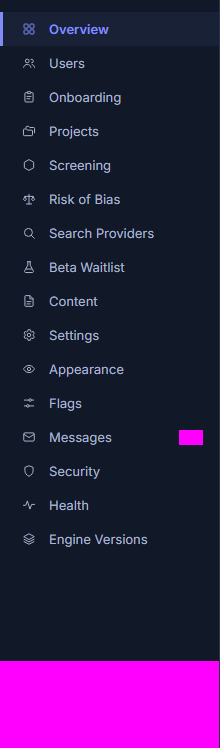
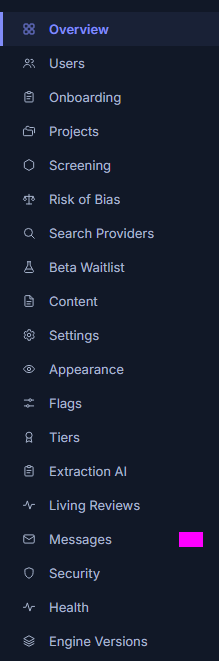
fix(sweep): Ops sidebar overlap + e2e alignment for the 66-69 additions
Final whole-app sweep found three issues the four feature prompts introduced or
exposed; all fixed:

- REAL UX BUG: the Ops sidebar footer ("Back to Dashboard") was position:absolute
  over a scrollable nav, so once 66/67 added the Extraction AI / Living Reviews /
  Tiers sections the last items (Health, Engine Versions) rendered UNDER the
  footer and were unclickable. Restructured the sidebar as a flex column — the
  nav list scrolls in its own flex:1 region and the footer sits below it, never
  overlapping. (Playwright caught it as a pointer-intercept.)
- Dashboard e2e selector: cardTitles matched any main [title], which since 63.md
  also includes non-card widgets; scoped it to a new data-testid on the project
  card/list-row titles (additive, production-safe) so the count is exact.
- Ops nav e2e: added the three new section ids + headings to the page object and
  bumped the "16 → 19 sections" assertion.
- Visual baselines regenerated for the two surfaces that legitimately changed:
  the project rail (Living Review entry in the Search submenu) and the Ops
  sidebar (new sections + flex layout).

Verified: dashboard, ops, visual, branding, extraction/living, public-synthesis
specs all green serially.

Claude-Session: https://claude.ai/code/session_01DsfLjreADdf7o7eJBSUZJb

diff --git a/src/frontend/pages/admin/AdminConsole.jsx b/src/frontend/pages/admin/AdminConsole.jsx
@@ -8662,7 +8662,10 @@ export default function AdminConsole() {
       </div>
 
       {/* ── Sidebar ──────────────────────────────────────────────────── */}
-      <div style={{ position: 'fixed', top: TOPBAR_H, left: 0, width: SIDEBAR_W, bottom: 0, background: C.surf, borderRight: `1px solid ${C.brd}`, overflowY: 'auto', zIndex: 200, paddingTop: 12 }}>
+      <div style={{ position: 'fixed', top: TOPBAR_H, left: 0, width: SIDEBAR_W, bottom: 0, background: C.surf, borderRight: `1px solid ${C.brd}`, zIndex: 200, display: 'flex', flexDirection: 'column' }}>
+        {/* Scrollable nav list — flex:1 so the footer below it never overlaps the
+            last items (regression when the section count grew past the fold). */}
+        <div style={{ flex: 1, overflowY: 'auto', minHeight: 0, paddingTop: 12 }}>
         {visibleNav.map(sec => {
           const isActive = active === sec.id;
           const badge = sec.id === 'messages' && unread > 0 ? unread : null;
@@ -8679,9 +8682,11 @@ export default function AdminConsole() {
             </button>
           );
         })}
+        </div>
 
-        {/* Sidebar footer — back to dashboard link + version line */}
-        <div style={{ position: 'absolute', bottom: 0, left: 0, right: 0, padding: '12px 16px', borderTop: `1px solid ${C.brd}`, background: C.surf }}>
+        {/* Sidebar footer — back to dashboard link + version line. Normal flow
+            (flexShrink:0) so it sits BELOW the scrollable list, never over it. */}
+        <div style={{ flexShrink: 0, padding: '12px 16px', borderTop: `1px solid ${C.brd}`, background: C.surf }}>
           <button onClick={() => navigate('/app')} style={{ display: 'flex', alignItems: 'center', gap: 8, width: '100%', padding: '7px 10px', background: 'transparent', border: `1px solid ${C.brd2}`, borderRadius: 7, color: C.txt2, fontSize: 12, cursor: 'pointer', fontFamily: FONT, transition: 'all 0.15s' }}
             onMouseEnter={e => { e.currentTarget.style.borderColor = C.acc; e.currentTarget.style.color = C.acc; }}
             onMouseLeave={e => { e.currentTarget.style.borderColor = C.brd2; e.currentTarget.style.color = C.txt2; }}

diff --git a/e2e/page-objects/DashboardPage.ts b/e2e/page-objects/DashboardPage.ts
@@ -115,8 +115,10 @@ export class DashboardPage {
   get openButtons(): Locator { return this.main.getByRole('button', { name: 'Open', exact: true }); }
   async projectCount(): Promise<number> { return this.openButtons.count(); }
 
-  /** Project card titles (a `[title]` attr is exclusive to grid cards within main). */
-  get cardTitles(): Locator { return this.main.locator('[title]'); }
+  /** Project card/list-row titles — scoped to the dedicated testid so aggregate
+   *  widgets (progress ring, metric cards) that also carry a `[title]` tooltip
+   *  never inflate the card count. */
+  get cardTitles(): Locator { return this.main.getByTestId('dashboard-project-title'); }
   /** Grid card titles whose text contains `name`. */
   cardTitle(name: string | RegExp): Locator { return this.cardTitles.filter({ hasText: name }); }
 

diff --git a/e2e/page-objects/OpsPage.ts b/e2e/page-objects/OpsPage.ts
@@ -26,6 +26,8 @@ import { Page, Locator, expect } from '@playwright/test';
 export const OPS_SECTION_IDS = [
   'overview', 'users', 'onboarding', 'projects', 'sift', 'rob',
   'searchProviders', 'waitlist', 'content', 'settings', 'style', 'flags',
+  // 66.md P5/P6 + 67.md — extraction-AI, living-review policy, product tiers.
+  'extractionAi', 'livingReviews', 'tiers',
   'messages', 'security', 'health', 'engineVersions',
 ] as const;
 
@@ -51,6 +53,9 @@ export class OpsPage {
     settings: /App Settings/i,
     style: /^Appearance$/i,
     flags: /Feature Flags/i,
+    extractionAi: /Extraction AI/i,
+    livingReviews: /Living Reviews/i,
+    tiers: /^Tiers$/i,
     messages: /Contact Messages/i,
     security: /Security/i,
     health: /System Health/i,

diff --git a/src/frontend/stitch/pages/StitchDashboard.jsx b/src/frontend/stitch/pages/StitchDashboard.jsx
@@ -231,7 +231,7 @@ function ProjectRow({ p, onOpen, onAction }) {
     <StitchCard interactive style={{ padding: 16, display: 'flex', flexDirection: 'column', gap: 12 }}>
       <div style={{ display: 'flex', alignItems: 'flex-start', justifyContent: 'space-between', gap: 10 }}>
         <div style={{ minWidth: 0 }}>
-          <div title={p.name} style={{ fontSize: 15, fontWeight: 700, color: S.textPrimary, overflow: 'hidden', textOverflow: 'ellipsis', whiteSpace: 'nowrap', letterSpacing: '-0.01em' }}>
+          <div data-testid="dashboard-project-title" title={p.name} style={{ fontSize: 15, fontWeight: 700, color: S.textPrimary, overflow: 'hidden', textOverflow: 'ellipsis', whiteSpace: 'nowrap', letterSpacing: '-0.01em' }}>
             {p.name || 'Untitled project'}
           </div>
           <div style={{ display: 'flex', gap: 6, marginTop: 6, flexWrap: 'wrap' }}>
@@ -279,7 +279,7 @@ function ProjectListRow({ p, onOpen, onAction }) {
       onMouseLeave={(e) => { e.currentTarget.style.background = 'transparent'; }}
       style={{ transition: 'background 0.15s ease' }}>
       <td style={{ ...cell, minWidth: 0 }} data-th="Project">
-        <div title={p.name} style={{ fontSize: 14, fontWeight: 700, color: S.textPrimary, overflow: 'hidden', textOverflow: 'ellipsis', whiteSpace: 'nowrap', maxWidth: 320 }}>
+        <div data-testid="dashboard-project-title" title={p.name} style={{ fontSize: 14, fontWeight: 700, color: S.textPrimary, overflow: 'hidden', textOverflow: 'ellipsis', whiteSpace: 'nowrap', maxWidth: 320 }}>
           {p.name || 'Untitled project'}
         </div>
       </td>

diff --git a/e2e/ops/ops.spec.ts b/e2e/ops/ops.spec.ts
@@ -34,7 +34,7 @@ test.describe('Ops console — admin', () => {
     }
   });
 
-  test('every one of the 16 nav sections is reachable and renders its content', async ({ page }) => {
+  test('every one of the 19 nav sections is reachable and renders its content', async ({ page }) => {
     const ops = new OpsPage(page);
     await ops.goto();
 